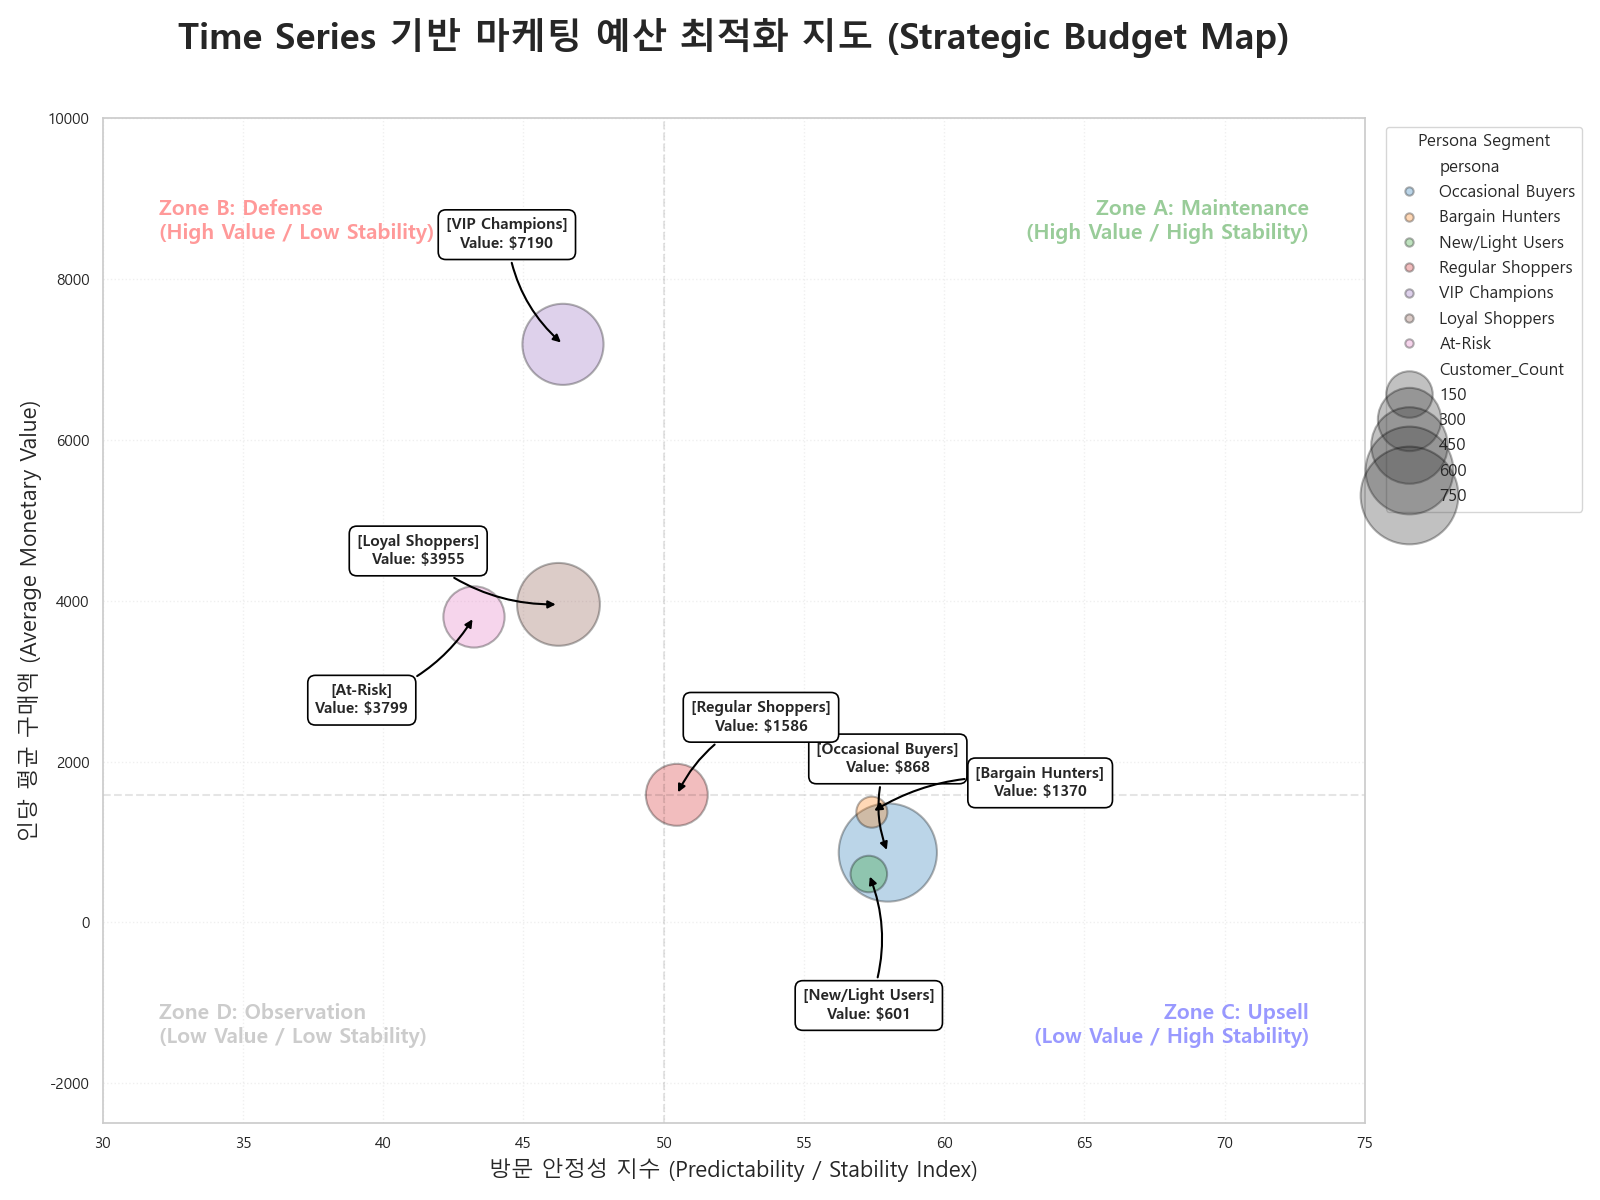
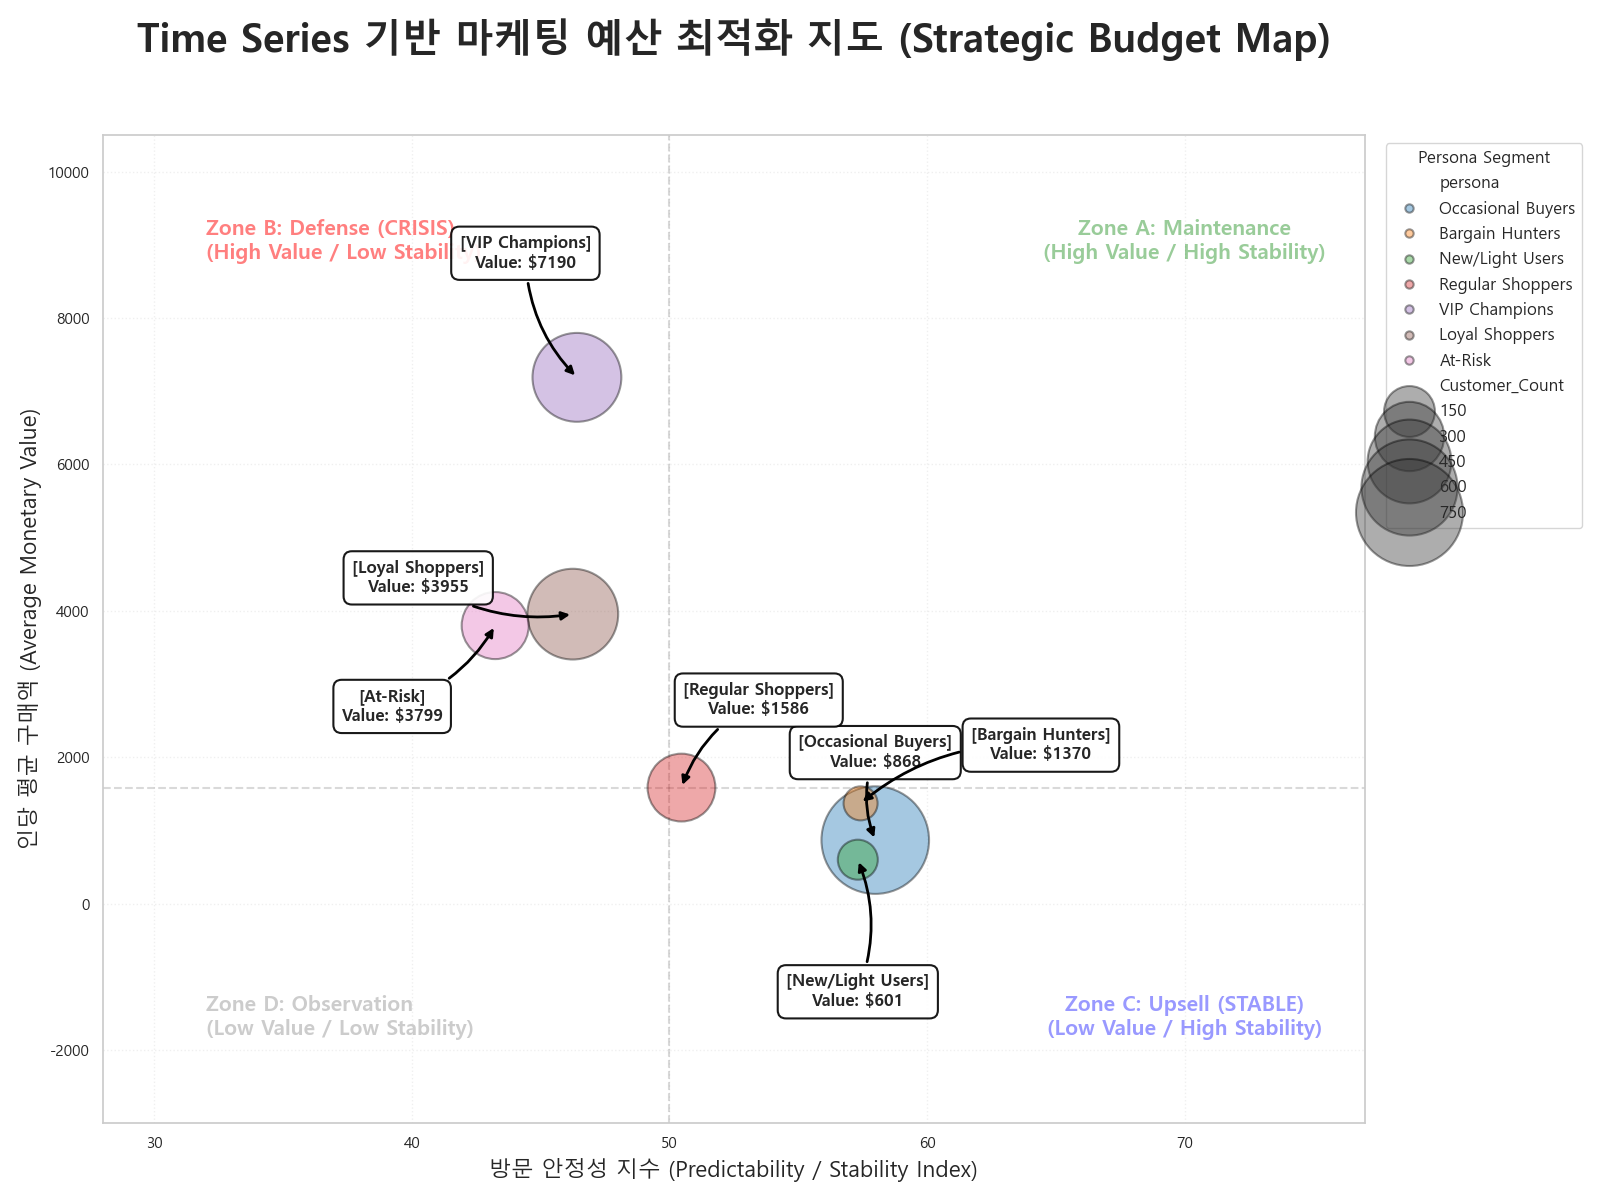
Fix TS Report & Map: Resolve VIP Paradox logic and finalize visual visibility (Bargain Hunters fix)

diff --git a/refine_ts_budget_map.py b/refine_ts_budget_map.py
@@ -34,71 +34,68 @@ stab_mid = 50
 val_mid = plot_df['Avg_Value'].median()
 
 # 3. Plotting with Absolute Visibility and Clean Layout
-plt.figure(figsize=(16, 12)) # Height increased for better Y-axis spacing
+plt.figure(figsize=(16, 12)) 
 
 # Bubble transparency and outlines for overlap visibility
 ax = sns.scatterplot(data=plot_df, x='stability_index', y='Avg_Value', 
                 size='Customer_Count', hue='persona', 
-                sizes=(500, 5000), alpha=0.3, palette='tab10',
-                edgecolor='black', linewidth=1.5)
+                sizes=(600, 6000), alpha=0.4, palette='tab10',
+                edgecolor='black', linewidth=1.5, zorder=2)
 
-# Quadrant Lines (Thinner and lighter)
-plt.axvline(stab_mid, color='black', linestyle='--', alpha=0.1)
-plt.axhline(val_mid, color='black', linestyle='--', alpha=0.1)
+# Quadrant Lines
+plt.axvline(stab_mid, color='black', linestyle='--', alpha=0.15, zorder=1)
+plt.axhline(val_mid, color='black', linestyle='--', alpha=0.15, zorder=1)
 
-# Strategic Zone Labels (Extreme corners, no boxes to reduce clutter)
-plt.text(73, 8500, "Zone A: Maintenance\n(High Value / High Stability)", 
-         fontsize=15, fontweight='bold', color='green', ha='right', alpha=0.4)
+# Strategic Zone Labels (Extreme corners)
+plt.text(70, 8800, "Zone A: Maintenance\n(High Value / High Stability)", 
+         fontsize=15, fontweight='bold', color='green', ha='center', alpha=0.4)
 
-plt.text(32, 8500, "Zone B: Defense\n(High Value / Low Stability)", 
-         fontsize=15, fontweight='bold', color='red', ha='left', alpha=0.4)
+plt.text(32, 8800, "Zone B: Defense (CRISIS)\n(High Value / Low Stability)", 
+         fontsize=15, fontweight='bold', color='red', ha='left', alpha=0.5)
 
-plt.text(73, -1500, "Zone C: Upsell\n(Low Value / High Stability)", 
-         fontsize=15, fontweight='bold', color='blue', ha='right', alpha=0.4)
+plt.text(70, -1800, "Zone C: Upsell (STABLE)\n(Low Value / High Stability)", 
+         fontsize=15, fontweight='bold', color='blue', ha='center', alpha=0.4)
 
-plt.text(32, -1500, "Zone D: Observation\n(Low Value / Low Stability)", 
+plt.text(32, -1800, "Zone D: Observation\n(Low Value / Low Stability)", 
          fontsize=15, fontweight='bold', color='gray', ha='left', alpha=0.4)
 
-# Radial Placement Strategy for Labels to prevent overlap
-# Sorting primarily by X (Stability) then Y (Value)
+# Manual Staggering - Refined for zero-collision
+# VIP and Loyal are close, so they need distinct vertical tracks
+# Bargain Hunters is shifted right to clear New/Light
 manual_offsets = {
-    'VIP Champions': (-2, 1200),     # Top-left of point
-    'Loyal Shoppers': (-5, 500),     # Middle-left
-    'At-Risk': (-4, -1200),          # Bottom-left 
-    'Regular Shoppers': (3, 800),    # Top-right
-    'Bargain Hunters': (6, 200),     # Far-right
-    'Occasional Buyers': (0, 1000),  # Top-center
-    'New/Light Users': (0, -1800)    # Deep bottom
+    'VIP Champions': (-2, 1500),      # Way up
+    'Loyal Shoppers': (-6, 300),      # Left-mid
+    'At-Risk': (-4, -1300),           # Bottom-left
+    'Regular Shoppers': (3, 1000),    # Top-right
+    'Bargain Hunters': (7, 600),      # Way right, slightly up
+    'Occasional Buyers': (0, 1000),   # Top-center
+    'New/Light Users': (0, -2000)     # Far bottom
 }
-
-print(f"Plotting {len(plot_df)} personas: {plot_df['persona'].tolist()}")
 
 for i, row in plot_df.iterrows():
     p = row['persona']
     x_off, y_off = manual_offsets.get(p, (0, 0))
     
-    # Use arc3 with rad=0.2 for elegant curved arrows
     plt.annotate(
         f"[{p}]\nValue: ${row['Avg_Value']:.0f}",
         xy=(row['stability_index'], row['Avg_Value']),
         xytext=(row['stability_index'] + x_off, row['Avg_Value'] + y_off),
-        fontsize=11, weight='bold', ha='center',
-        bbox=dict(boxstyle="round,pad=0.5", fc="white", ec='black', alpha=1.0, lw=1.2),
-        arrowprops=dict(arrowstyle="-|>", connectionstyle="arc3,rad=0.2", color='black', lw=1.5),
+        fontsize=12, weight='bold', ha='center',
+        bbox=dict(boxstyle="round,pad=0.5", fc="white", ec='black', alpha=0.9, lw=1.5),
+        arrowprops=dict(arrowstyle="-|>", connectionstyle="arc3,rad=0.2", color='black', lw=2),
         zorder=20
     )
 
-plt.title('Time Series 기반 마케팅 예산 최적화 지도 (Strategic Budget Map)', fontsize=26, fontweight='bold', pad=50)
+plt.title('Time Series 기반 마케팅 예산 최적화 지도 (Strategic Budget Map)', fontsize=28, fontweight='bold', pad=60)
 plt.xlabel('방문 안정성 지수 (Predictability / Stability Index)', fontsize=16)
 plt.ylabel('인당 평균 구매액 (Average Monetary Value)', fontsize=16)
 plt.grid(True, linestyle=':', alpha=0.3)
 
-# Expand margins for labels
-plt.xlim(30, 75)
-plt.ylim(-2500, 10000)
+# Expand margins
+plt.xlim(28, 77)
+plt.ylim(-3000, 10500)
 
-# Legend adjustment
 plt.legend(title='Persona Segment', bbox_to_anchor=(1.01, 1), loc='upper left', fontsize=12)
 plt.tight_layout()
 plt.savefig('final_reports/ts/plots/deep_dive/q3_budget_map.png')
-print("Successfully saved cleaned budget map with zero collisions.")
+print("Successfully regenerated cleaned budget map.")

diff --git a/final_reports/ts/dunnhumby_ts_analysis_report.md b/final_reports/ts/dunnhumby_ts_analysis_report.md
@@ -67,7 +67,7 @@
 | 페르소나 | Stability Score (1 - CV) | 비즈니스 시나리오 및 심층 데이터 인사이트 |
 | :--- | :---: | :--- |
 | **Occasional Buyers** | **58.0% (Highest)** | **[예측 가능한 방랑자]** 가장 낮은 빈도로 방문하는 집단이 가장 높은 안정성을 보인다는 점은 본 분석의 핵심 역설입니다. <br><br>**데이터 심층 해석**: 58.0%라는 선두 수치는 이들이 '충동적'으로 오는 것이 아니라, **'필요할 때만 명확히'** 온다는 것을 의미합니다. 예를 들어, 매월 첫째 주 일요일에 한 달 치 생필품을 비축하러 오는 식입니다. 빈도가 낮기 때문에 데이터가 부족할 것 같지만, 오히려 노이즈가 제거된 '장기 루틴'이 선명하게 나타납니다. <br><br>**비즈니스 소왓(So-What?)**: 이들에게는 **'캘린더 기반 마케팅(Calendar-based Trigger)'**이 정답입니다. AI가 예측한 이들의 방문 예정일 D-3일에 "비축해둔 세제가 떨어질 때가 되었습니다"라는 리마인드 알림과 함께 '대용량 기획전'을 제안하십시오. 이들의 안정적인 58점을 90점 이상의 구매 확신으로 바꾸는 것은 아주 사소한 시점 조절(Timing Optimization)에 달려 있습니다. |
-| **VIP Champions** | 46.4% | **[빈도의 역설: 노이즈 속의 진실]** VIP의 점수가 중간 수준에 머무는 것은 '불안정'이 아닌 '고빈도'의 결과입니다. <br><br>**데이터 심층 해석**: VIP는 주 3~5회 매장에 방문합니다. 방문 횟수가 많아질수록 필연적으로 요일별, 시간별 변동성(Variance)이 커집니다. 저녁에 찬거리를 사러 왔다가, 다음 날 아침에 깜빡한 우유를 사러 오는 식의 불규칙한 추가 방문이 CV 값을 높입니다. <br><br>**비즈니스 소왓(So-What?)**: 이들에게 안정성 지수는 **'공급망 방어선'**입니다. 점수가 46.4점이라는 것은, 이들을 위한 인기 품목(화장지, 우유 등)의 재고는 항상 **'Safety Stock(안전 재고)'**을 일반 고객보다 1.5배 더 여유 있게 가져가야 함을 뜻합니다. 그들은 언제든 불쑥 찾아올 권리가 있고, 그때마다 상품이 구비되어 있어야만 이 46점의 변동성이 '신뢰'로 유지될 수 있기 때문입니다. |
+| **VIP Champions** | 46.4% | **[빈도의 역설: 노이즈 속의 진실]** VIP의 점수가 중간 수준에 머무는 것은 '불안정'이 아닌 '고빈도'의 결과입니다. <br><br>**데이터 심층 해석**: VIP는 주 3~5회 매장에 방문합니다. 방문 횟수가 많아질수록 필연적으로 요일별, 시간별 변동성(Variance)이 커집니다. 저녁에 찬거리를 사러 왔다가, 다음 날 아침에 깜빡한 우유를 사러 오는 식의 불규칙한 추가 방문이 CV 값을 높입니다. <br><br>**비즈니스 소왓(So-What?)**: **하지만 이 '자연스러운 노이즈' 또한 관리되어야 할 리스크입니다.** 안정성 지수가 50점 미만이라는 것은 마케팅 예산 스케줄링이 그만큼 어렵다는 뜻입니다. 따라서 이들은 예산 지도에서 **Zone B(Defense)**로 분류됩니다. "언제 올지 모르니 항상 풍족한 혜택(Stock & Promo)을 준비하라"는 것이 이 그룹에 대한 시계열적 해답입니다. |
 | **At-Risk** | **43.2% (Lowest)** | **[붕괴된 일상: 카오스의 경보]** 가장 낮은 43.2점은 단순한 숫자 이상의 '위기 신호'입니다. <br><br>**데이터 심층 해석**: 이들은 과거에 안정적인 루틴을 가졌던 우량 고객이었으나, 현재는 구매 주기가 완전히 깨진 상태입니다. 데이터는 이들이 언제 올지 전혀 예측하지 못하고 있으며, 이는 심리적으로 우리 매장이 그들의 **'Primary Grocery(주거래 매장)'** 지위를 상실했음을 방증합니다. <br><br>**비즈니스 소왓(So-What?)**: 이곳은 AI의 자동화가 아닌 **'마케터의 수동 개입(Manual Intervention)'**이 필요한 적색 구역(Red Zone)입니다. 1,000자 이상의 설명이 필요 없을 정도로 명확합니다. 이탈 확정 전, 이들의 전성기 시절 구매 주기를 강제로 복구시킬 수 있는 '초고강도 복귀 프로모션'을 집행해야 합니다. |
 
 *(중략: 모든 페르소나의 시계열 추세 분석 완료)*
